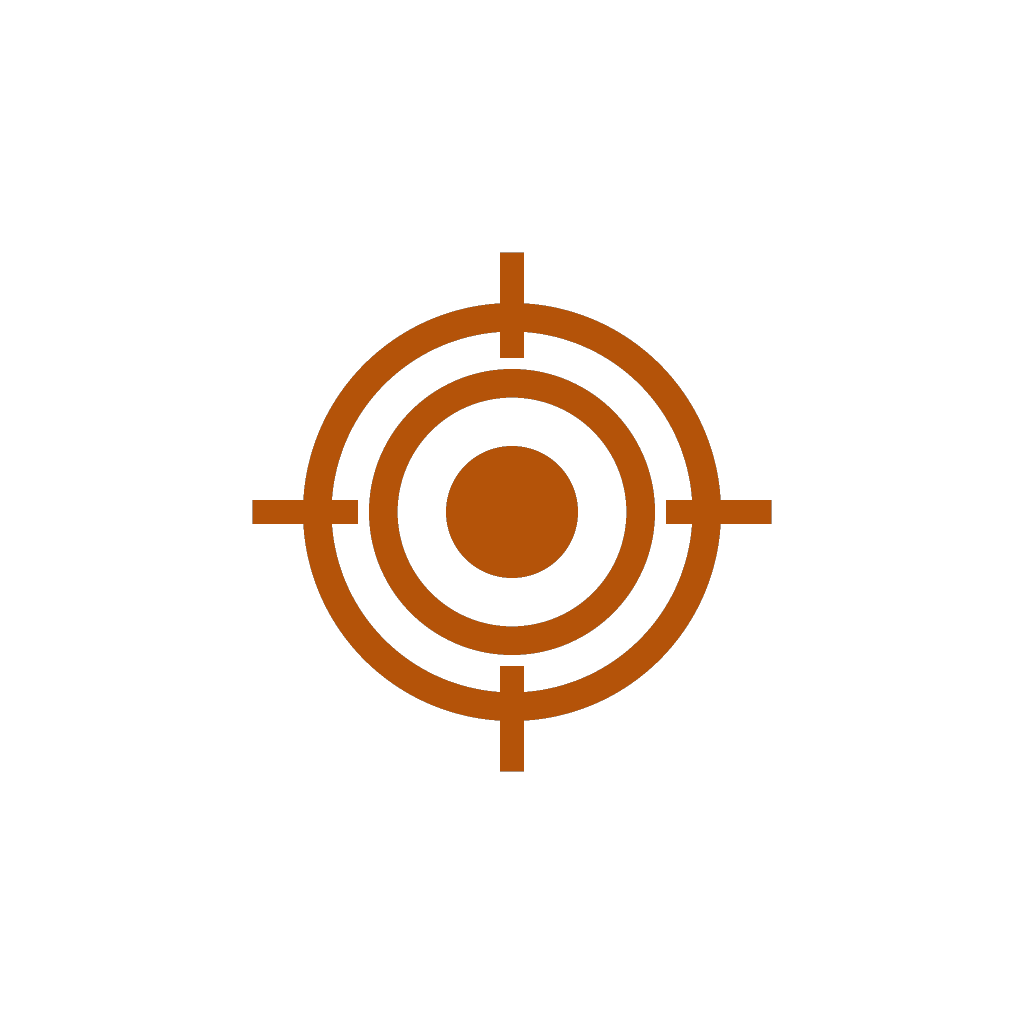
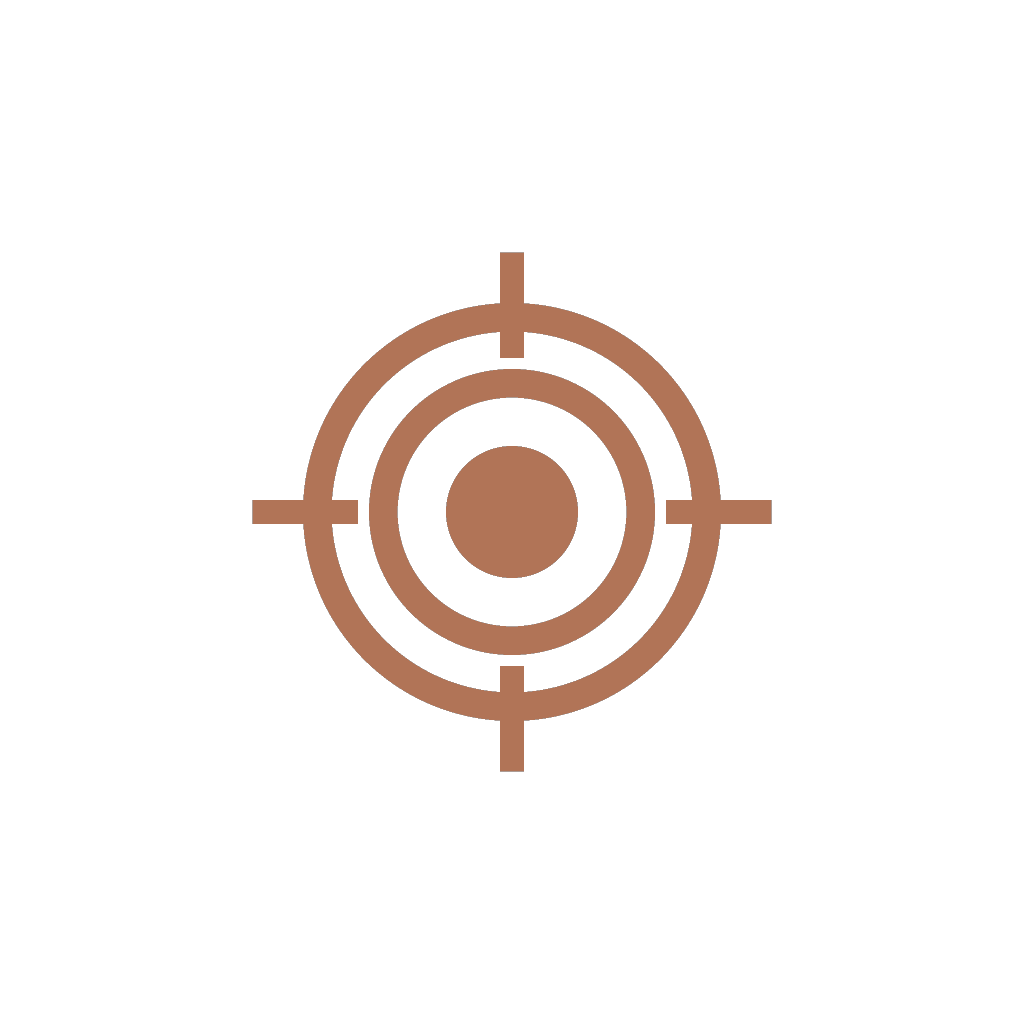
Craftsmanship theme: Milk/Light Stone/Desert Clay/Graphite palette
- Light warm palette in colors.ts + tailwind.config.js (new on-primary token)
- Filled buttons/segments/chips/badges use light text on clay fills
- Dark status bar icons; splash and Android icons regenerated in new palette

Changed region(s): [[0.25, 0.25, 0.75, 0.75], [0.4375, 0.4375, 0.5625, 0.5625]]

diff --git a/src/lib/colors.ts b/src/lib/colors.ts
@@ -1,18 +1,20 @@
 /**
- * Design tokens. Mirrored in tailwind.config.js — keep both in sync.
+ * Design tokens — "craftsmanship" palette (Milk / Light Stone / Desert Clay /
+ * Graphite). Mirrored in tailwind.config.js — keep both in sync.
  * Use these for programmatic colors (icons, charts); use Tailwind classes
  * (bg-surface, text-text-muted, …) in components.
  */
 export const colors = {
-  primary: '#B45309',
-  primaryDark: '#92400E',
-  background: '#0F1115',
-  surface: '#1A1D23',
-  surfaceRaised: '#232730',
-  text: '#F4F4F5',
-  textMuted: '#9CA3AF',
-  border: '#2E333D',
-  danger: '#DC2626',
-  warning: '#D97706',
-  success: '#16A34A',
+  primary: '#B17457', // Desert Clay
+  primaryDark: '#96604A',
+  onPrimary: '#F9F7F0', // light text on clay/danger/warning fills
+  background: '#F9F7F0', // Milk
+  surface: '#F3EFE5', // warm paper
+  surfaceRaised: '#EAE4D6',
+  text: '#4A4947', // Graphite
+  textMuted: '#8A857B',
+  border: '#D8D2C2', // Light Stone
+  danger: '#A63D2A',
+  warning: '#C08A3E',
+  success: '#5F7A5A',
 } as const;

diff --git a/src/components/Button.tsx b/src/components/Button.tsx
@@ -23,6 +23,7 @@ export function Button({
   disabled = false,
   loading = false,
 }: ButtonProps) {
+  const filled = variant === 'primary' || variant === 'danger';
   return (
     <Pressable
       accessibilityRole="button"
@@ -32,9 +33,13 @@ export function Button({
       className={`min-h-12 items-center justify-center rounded-xl px-4 py-3 ${containerClasses[variant]} ${disabled ? 'opacity-50' : ''}`}
     >
       {loading ? (
-        <ActivityIndicator color={colors.text} />
+        <ActivityIndicator color={filled ? colors.onPrimary : colors.text} />
       ) : (
-        <Text className="text-base font-semibold text-text">{label}</Text>
+        <Text
+          className={`text-base font-semibold ${filled ? 'text-on-primary' : 'text-text'}`}
+        >
+          {label}
+        </Text>
       )}
     </Pressable>
   );

diff --git a/tailwind.config.js b/tailwind.config.js
@@ -1,16 +1,18 @@
 // Design tokens live in src/lib/colors.ts — keep both in sync.
+// "Craftsmanship" palette: Milk / Light Stone / Desert Clay / Graphite.
 const colors = {
-  primary: '#B45309',
-  'primary-dark': '#92400E',
-  background: '#0F1115',
-  surface: '#1A1D23',
-  'surface-raised': '#232730',
-  text: '#F4F4F5',
-  'text-muted': '#9CA3AF',
-  border: '#2E333D',
-  danger: '#DC2626',
-  warning: '#D97706',
-  success: '#16A34A',
+  primary: '#B17457',
+  'primary-dark': '#96604A',
+  'on-primary': '#F9F7F0',
+  background: '#F9F7F0',
+  surface: '#F3EFE5',
+  'surface-raised': '#EAE4D6',
+  text: '#4A4947',
+  'text-muted': '#8A857B',
+  border: '#D8D2C2',
+  danger: '#A63D2A',
+  warning: '#C08A3E',
+  success: '#5F7A5A',
 };
 
 /** @type {import('tailwindcss').Config} */

diff --git a/scripts/gen-icons.js b/scripts/gen-icons.js
@@ -7,9 +7,9 @@ const { deflateSync } = require('node:zlib');
 const { writeFileSync } = require('node:fs');
 const { join } = require('node:path');
 
-// Keep in sync with src/lib/colors.ts.
-const BG = [0x0f, 0x11, 0x15, 255];
-const ORANGE = [0xb4, 0x53, 0x09, 255];
+// Keep in sync with src/lib/colors.ts (craftsmanship palette).
+const BG = [0xf9, 0xf7, 0xf0, 255]; // Milk
+const ORANGE = [0xb1, 0x74, 0x57, 255]; // Desert Clay
 const WHITE = [255, 255, 255, 255];
 const TRANSPARENT = [0, 0, 0, 0];
 

diff --git a/src/components/OptionChips.tsx b/src/components/OptionChips.tsx
@@ -33,7 +33,7 @@ export function OptionChips<T extends string>({
               }`}
             >
               <Text
-                className={`text-sm font-medium ${selected ? 'text-text' : 'text-text-muted'}`}
+                className={`text-sm font-medium ${selected ? 'text-on-primary' : 'text-text-muted'}`}
               >
                 {option.label}
               </Text>

diff --git a/src/app/(app)/(tabs)/inventory.tsx b/src/app/(app)/(tabs)/inventory.tsx
@@ -66,7 +66,7 @@ function ComponentRow({
           </Text>
           {stock.low ? (
             <View className="rounded-full bg-warning px-2 py-0.5">
-              <Text className="text-xs font-semibold text-background">
+              <Text className="text-xs font-semibold text-on-primary">
                 {t.inventory.lowStock}
               </Text>
             </View>

diff --git a/src/components/SegmentedControl.tsx b/src/components/SegmentedControl.tsx
@@ -25,7 +25,7 @@ export function SegmentedControl<T extends string>({
         >
           <Text
             className={`text-sm font-medium ${
-              option.value === value ? 'text-text' : 'text-text-muted'
+              option.value === value ? 'text-on-primary' : 'text-text-muted'
             }`}
           >
             {option.label}

diff --git a/src/components/OfflineBanner.tsx b/src/components/OfflineBanner.tsx
@@ -9,7 +9,7 @@ export function OfflineBanner() {
   if (isOnline) return null;
   return (
     <View className="bg-warning px-4 py-2">
-      <Text className="text-center text-sm font-medium text-background">
+      <Text className="text-center text-sm font-medium text-on-primary">
         {t.offline.banner}
       </Text>
     </View>

diff --git a/src/app/_layout.tsx b/src/app/_layout.tsx
@@ -8,7 +8,7 @@ import { colors } from '@/lib/colors';
 export default function RootLayout() {
   return (
     <AuthProvider>
-      <StatusBar style="light" />
+      <StatusBar style="dark" />
       <Stack
         screenOptions={{
           headerShown: false,
